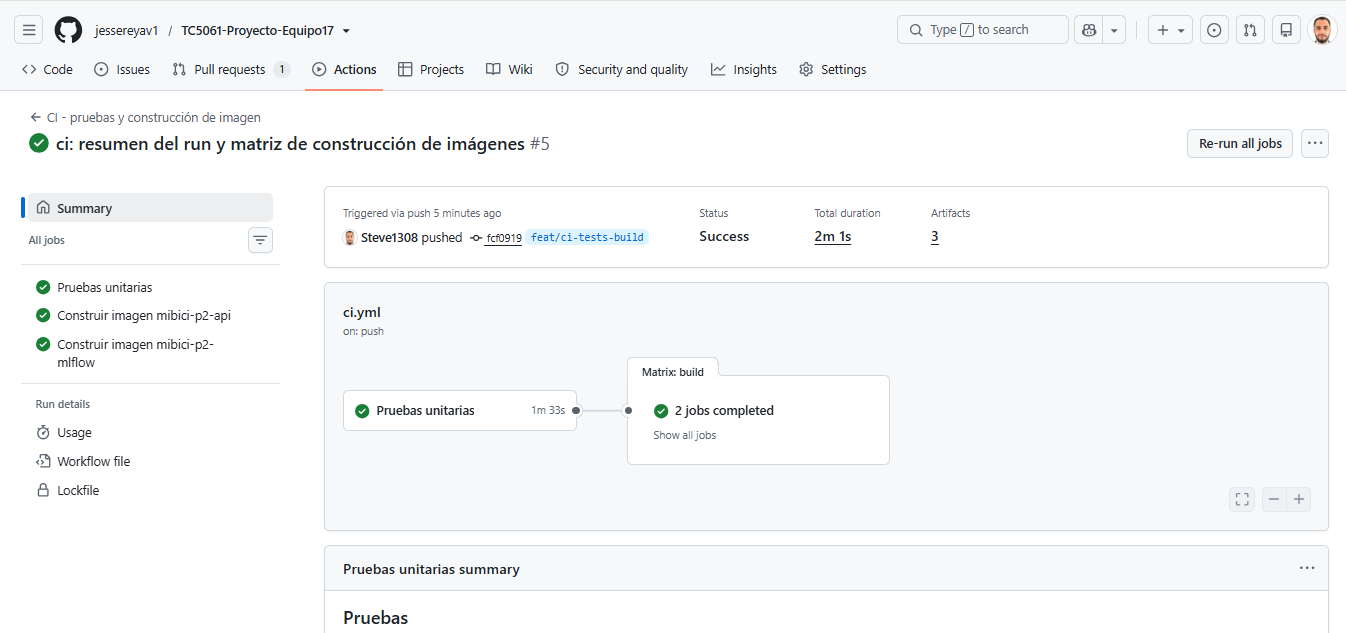
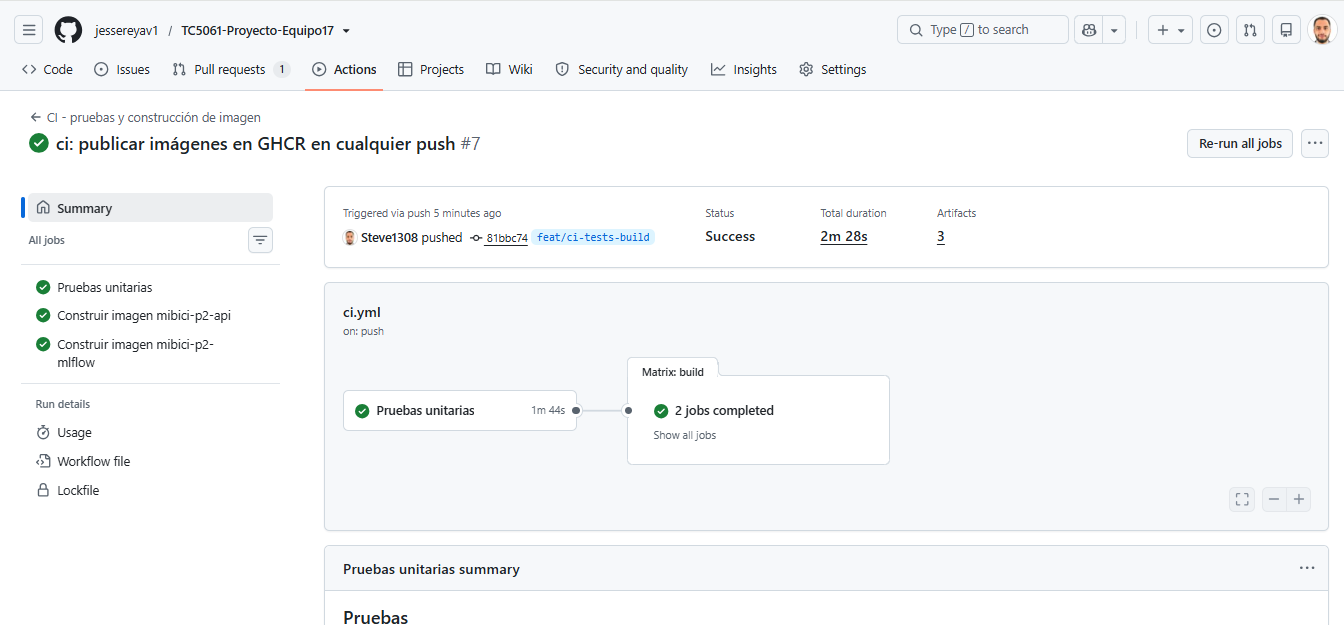
docs: actualizar README y evidencia con la publicación en GHCR

diff --git a/README.md b/README.md
@@ -929,24 +929,25 @@ El workflow `.github/workflows/ci.yml` automatiza la verificación del proyecto 
 | Job | Qué hace |
 |---|---|
 | `tests` | Instala `requirements-test.txt` con Python 3.10 y ejecuta `python -m pytest tests -v`. Genera `reports/junit.xml` y lo publica como artifact `junit-results`, incluso si las pruebas fallan. Además escribe un resumen en `$GITHUB_STEP_SUMMARY` con el commit, el estado del job y el artifact. |
-| `build` | Se ejecuta como matriz de dos jobs (`Construir imagen mibici-p2-api` y `Construir imagen mibici-p2-mlflow`), ambos con `needs: tests`. Cada uno valida `docker-compose.yml` con `docker compose config -q`, construye su imagen desde el `Containerfile` correspondiente y escribe su resumen con el Dockerfile y los tags publicados. En `push` a `main` o en ejecuciones manuales publica en GitHub Container Registry; en `pull_request` o en `push` a la rama de trabajo solo construye (`push: false`). Usa caché de GitHub Actions con scopes separados (`api` y `mlflow`) y `fail-fast: false`. |
+| `build` | Se ejecuta como matriz de dos jobs (`Construir imagen mibici-p2-api` y `Construir imagen mibici-p2-mlflow`), ambos con `needs: tests`. Cada uno valida `docker-compose.yml` con `docker compose config -q`, construye su imagen desde el `Containerfile` correspondiente y escribe su resumen con el Dockerfile y los tags publicados. En cualquier `push` a las ramas configuradas (`main` y `feat/ci-tests-build`) o en ejecuciones manuales publica en GitHub Container Registry; en `pull_request` solo construye (`push: false`). Usa caché de GitHub Actions con scopes separados (`api` y `mlflow`) y `fail-fast: false`. |
 
 Si falla cualquier prueba, los jobs `build` no corren: primero se valida el código y después se construyen las imágenes.
 
 #### Publicación en GitHub Container Registry
 
 - El workflow usa `permissions: packages: write` y el `GITHUB_TOKEN` del repositorio, así que no se necesitan secrets adicionales.
-- `docker/login-action@v3` se ejecuta solo cuando la rama es `main` o cuando el run se lanza manualmente con `workflow_dispatch`.
+- `docker/login-action@v3` se ejecuta en cualquier `push` y en ejecuciones manuales; se omite únicamente en `pull_request` (`if: github.event_name != 'pull_request'`).
 - Las imágenes publicadas son:
   - `ghcr.io/jessereyav1/mibici-p2-api:latest` y `ghcr.io/jessereyav1/mibici-p2-api:<sha>`
   - `ghcr.io/jessereyav1/mibici-p2-mlflow:latest` y `ghcr.io/jessereyav1/mibici-p2-mlflow:<sha>`
-- Se pueden consultar en la pestaña **Packages** del repositorio. Un `push` a una rama distinta de `main` solo construye: para ver los paquetes antes del merge hay que usar **Run workflow**.
+- Se pueden consultar en la pestaña **Packages** del repositorio. El botón **Run workflow** aparece cuando este archivo ya existe en `main` (requisito de GitHub para `workflow_dispatch`); antes del merge basta con hacer `push` a `feat/ci-tests-build` para publicar.
 
 #### Resumen y optimizaciones
 
 - Los pasos de resumen usan `if: always()`, así que el informe aparece incluso si una etapa falla.
 - La matriz construye ambas imágenes en paralelo; `fail-fast: false` evita que un fallo en una cancele la otra.
 - Cada job de la matriz genera su propio resumen dentro de la pestaña del run.
+- La publicación se controla con `github.event_name != 'pull_request'`: los PR solo validan y construyen, sin usar credenciales de escritura en el registro.
 
 ### 16.2. Reproducirlo en local
 
@@ -958,11 +959,11 @@ Desde la raíz del repositorio:
     docker build -f Containerfile -t mibici-p2-api:ci-local .
     docker build -f Containerfile.mlflow -t mibici-p2-mlflow:ci-local .
 
-No se ejecuta `docker compose up` en CI: en 15.7 se explica que el registro necesita `mlflow.db` y `mlartifacts/` locales, que no se versionan. El workflow solo valida la sintaxis del compose y construye las imágenes. La publicación en GHCR tampoco ocurre en local: solo la hace GitHub cuando la rama es `main` o el run es manual.
+No se ejecuta `docker compose up` en CI: en 15.7 se explica que el registro necesita `mlflow.db` y `mlartifacts/` locales, que no se versionan. El workflow solo valida la sintaxis del compose y construye las imágenes. La publicación en GHCR tampoco ocurre en local: solo la hace GitHub en un `push` a las ramas configuradas o en un run manual.
 
 ### 16.3. Evidencia
 
-El resultado se consulta en la pestaña **Actions** del repositorio. La captura muestra el run con `Pruebas unitarias` y los dos jobs de la matriz en verde, el artifact `junit-results` disponible y los resúmenes de pruebas e imágenes. Los paquetes publicados se verifican en la pestaña **Packages**.
+El resultado se consulta en la pestaña **Actions** del repositorio. La captura muestra el run con `Pruebas unitarias` y los dos jobs de la matriz en verde, el paso `Iniciar sesión en GHCR` exitoso, el artifact `junit-results` disponible y los resúmenes de pruebas e imágenes. Los paquetes publicados se verifican en la pestaña **Packages**.
 
 ![Workflow de CI con pruebas y builds en verde](docs/evidencia_ci.png)
 
